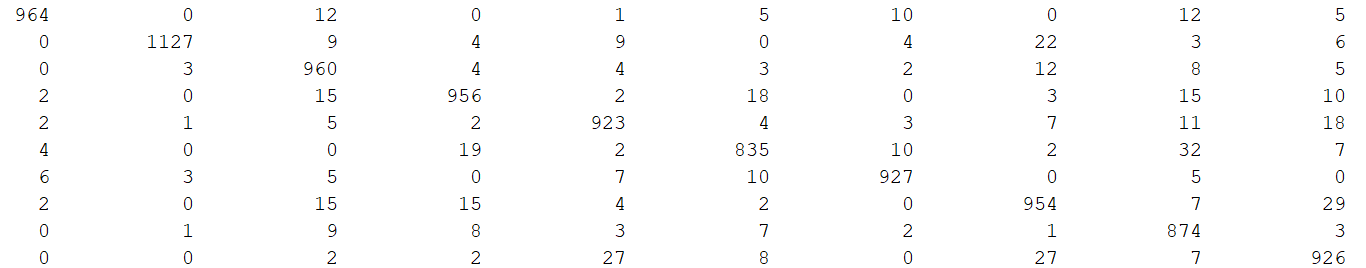
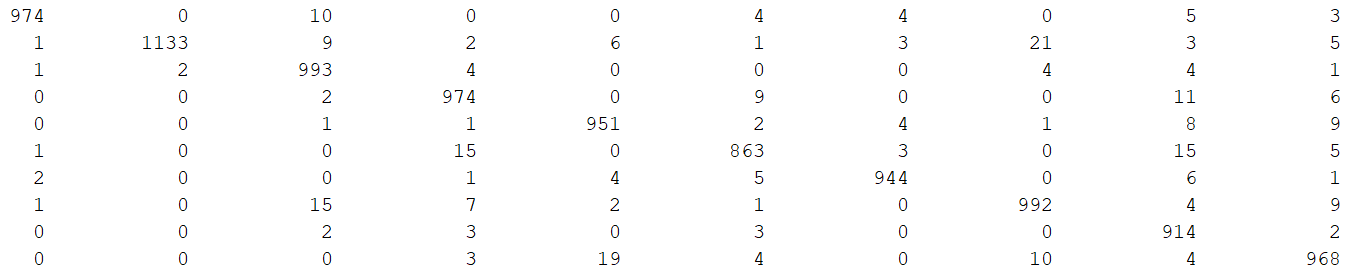
Disabling normalization of KNN features

diff --git a/5/Homework5_Sowatzke.tex b/5/Homework5_Sowatzke.tex
@@ -82,11 +82,11 @@
 			
 			\begin{equation*}
 				\mathbf{H} = \begin{bmatrix}
-					h(3)   & h(2)   & h(1)   & 0      & \cdots & 0      & 0      & 0 \\
-					0      & h(3)   & h(2)   & h(1)   & \cdots & 0      & 0      & 0 \\
+					h(1)   & h(2)   & h(3)   & 0      & \cdots & 0      & 0      & 0 \\
+					0      & h(1)   & h(2)   & h(3)   & \cdots & 0      & 0      & 0 \\
 					\vdots & \vdots & \vdots & \vdots & \ddots & \vdots & \vdots & \vdots \\
-					0      & 0      & 0      & 0      & \cdots & h(2)   & h(1)   & 0 \\
-					0      & 0      & 0      & 0      & \cdots & h(3)   & h(2)   & h(1)
+					0      & 0      & 0      & 0      & \cdots & h(2)   & h(3)   & 0 \\
+					0      & 0      & 0      & 0      & \cdots & h(1)   & h(2)   & h(3)
 				\end{bmatrix}
 			\end{equation*}
 				
@@ -108,11 +108,11 @@
 			
 			\begin{equation*}
 				\mathbf{H_i} = \begin{bmatrix}
-					h(3,i) & h(2,i) & h(1,i) & 0      & \cdots & 0      & 0      & 0 \\
-					0      & h(3,i) & h(2,i) & h(1,i) & \cdots & 0      & 0      & 0 \\
+					h(1,i) & h(2,i) & h(3,i) & 0      & \cdots & 0      & 0      & 0 \\
+					0      & h(1,i) & h(2,i) & h(3,i) & \cdots & 0      & 0      & 0 \\
 					\vdots & \vdots & \vdots & \vdots & \ddots & \vdots & \vdots & \vdots \\
-					0      & 0      & 0      & 0      & \cdots & h(2,i) & h(1,i) & 0 \\
-					0      & 0      & 0      & 0      & \cdots & h(3,i) & h(2,i) & h(1,i)
+					0      & 0      & 0      & 0      & \cdots & h(2,i) & h(3,i) & 0 \\
+					0      & 0      & 0      & 0      & \cdots & h(1,i) & h(2,i) & h(3,i)
 				\end{bmatrix}
 			\end{equation*}
 			
@@ -146,7 +146,7 @@
 			\label{cnn_confusion_matrix}
 		\end{figure}
 		
-		When evaluated on the test data set, the KNN classifier achieved 94.46\% accuracy. The KNN classification results are displayed in the following confusion matrix:
+		When evaluated on the test data set, the KNN classifier achieved 97.06\% accuracy. The KNN classification results are displayed in the following confusion matrix:
 		
 		\begin{figure}[H]
 			\centerline{\fbox{\includegraphics[width=0.95\textwidth]{knn_confusion_matrix.png}}}
@@ -154,7 +154,7 @@
 			\label{knn_confusion_matrix}
 		\end{figure}		
 	
-		The CNN classifier achieved better performance than the KNN classifier. It not only achieved a higher overall accuracy, but it also provided better performance for samples of all input classes. (This can be seen on the main diagonal of the confusion matrix.)
+		The CNN classifier achieved better performance than the KNN classifier. It not only achieved a higher overall accuracy, but it also maintained or improved the classification accuracy across all input classes. (This can be seen by examining the main diagonal of the confusion matrix.)
 	
 	\end{enumerate}
 	

diff --git a/5/Homework5_Sowatzke.m b/5/Homework5_Sowatzke.m
@@ -153,7 +153,7 @@ X = reshape(trainingImages,[],size(trainingImages,4)).';
 Y = trainingLabels;
 
 % Create a KNN Classifer with K=3
-Mdl = fitcknn(X,Y,'NumNeighbors',3,'Standardize',1);
+Mdl = fitcknn(X,Y,'NumNeighbors',3);
 
 % Create an MxN array from the test images
 X = reshape(testImages,[],size(testImages,4)).';
